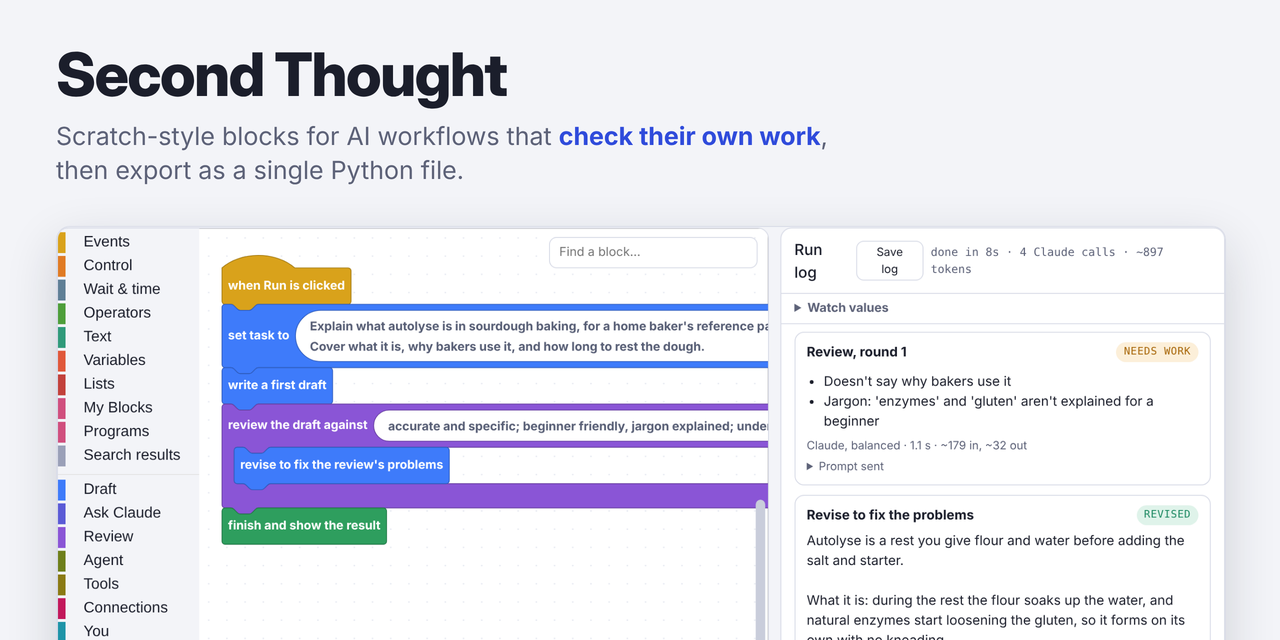
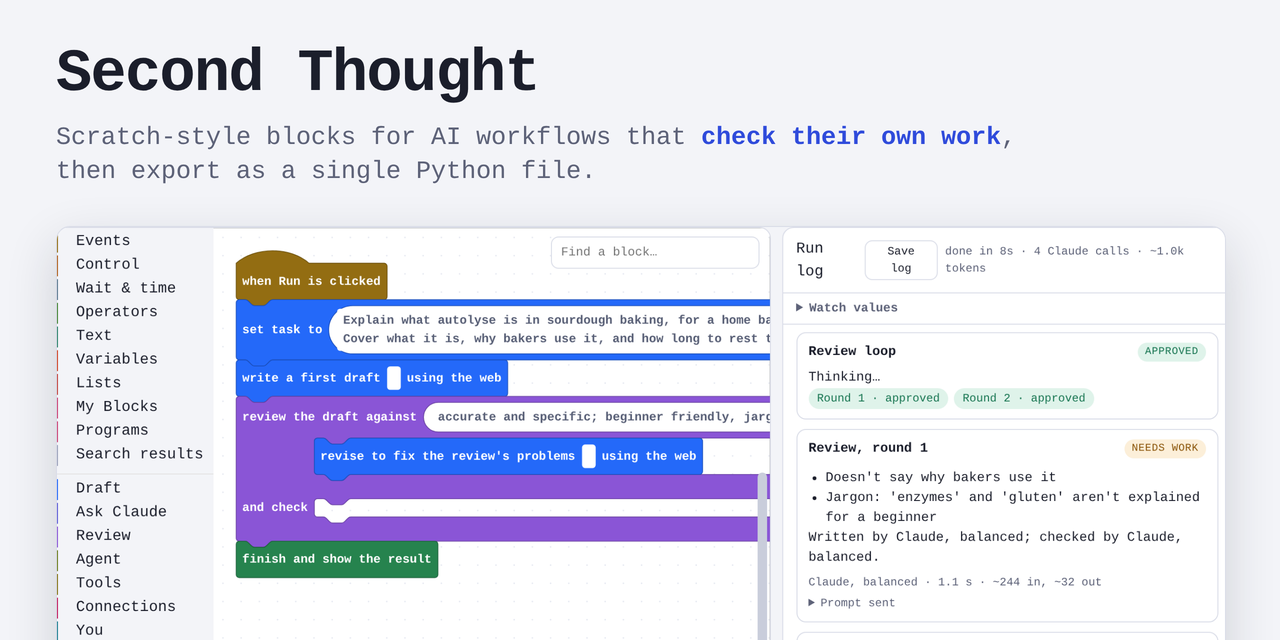
Remake all screenshots against the current page and runtime; release steps include the recorders (#454)
- screenshots/: all 11 pictures remade with tools/record_demo.py and
  tools/record_docs.py against the current page (runtime 3.13.0)
- tools/record_demo.py, tools/record_docs.py: dismiss the first screen
  (#443) and open the export panel via the Program menu's Export (#444),
  so the pictures show the editor, not the overlay or a dead selector
- tools/record_docs.py terminal script: the review steps now show the
  default model band (Claude, balanced (standard)), not a cheaper one —
  a review only uses another model when the program is told to — and the
  --doctor picture names the current RUNTIME_VERSION (3.13.0)
- tests/unit/test_docs.py: RecordedPictures keeps the terminal picture's
  model lines on one band and its runtime line current
- CLAUDE.md and MISTRAL.md: the release steps now include remaking the
  pictures (needs ffmpeg and mmdc)
- CHANGELOG, ROADMAP G4

diff --git a/tools/record_docs.py b/tools/record_docs.py
@@ -77,14 +77,14 @@ RUN = """C:\\Users\\you\\review-loop>run.bat
 ▸ Review  [needs work]
     - Doesn't say why bakers use it.
     - Jargon: 'enzymes' and 'gluten' aren't explained for a beginner.
-    · Claude, quick (budget) · 2.1 s · 655 in, 61 out
+    · Claude, balanced (standard) · 2.1 s · 655 in, 61 out
 
 ▸ Revise to fix the problems  [revised]
     Autolyse is a rest you give flour and water before adding the salt and starter…
     · Claude, balanced (standard) · 7.4 s · 1,020 in, 341 out
 
 ▸ Review  [approved]
-    · Claude, quick (budget) · 1.9 s · 702 in, 12 out
+    · Claude, balanced (standard) · 1.9 s · 702 in, 12 out
 
 ============================================================
 RESULT
@@ -95,12 +95,12 @@ Done · 4 model calls · Claude: 2,789 tokens in, 700 out · about £0.01 at lis
 """
 DOCTOR = """C:\\Users\\you\\wallet-health-check>python wallet-health-check.py --doctor
 
-Checking wallet-health-check.py (runtime 3.11.0, Python 3.14.6).
+Checking wallet-health-check.py (runtime 3.13.0, Python 3.14.6).
 Only reading: nothing is sent, posted, switched or charged.
 
   ok    Python: 3.14.6
   ok    Currency: GBP, at the ECB rate of 2026-11-06 (1 US dollar = £0.75)
-  ok    Runtime: 3.11.0 is the latest
+  ok    Runtime: 3.13.0 is the latest
   ok    Settings: read C:\\Users\\you\\second-thought.ini + C:\\Users\\you\\wallet-health-check\\second-thought.ini
   ok    Keys: ANTHROPIC_API_KEY (C:\\Users\\you\\second-thought.ini), EMAIL_PASSWORD (the keychain)
   ok    Package anthropic: 2.3.0
@@ -181,6 +181,7 @@ async def page_shots():
         await pg.add_init_script(MOCK)
         await pg.goto("http://test/")
         await pg.wait_for_timeout(1500)
+        await pg.evaluate("() => { document.getElementById('first').hidden = true; }")  # the pictures show the editor (#443)
         for name, toggle in (("examples", "#ex-toggle"), ("export", "#io-export"), ("home-assistant", "#ha-toggle")):
             await pg.click(toggle)
             await pg.wait_for_timeout(700)

diff --git a/tools/record_demo.py b/tools/record_demo.py
@@ -62,6 +62,7 @@ async def record(frames: pathlib.Path):
         await pg.add_init_script(MOCK)
         await pg.goto("http://test/")
         await pg.wait_for_timeout(1500)
+        await pg.evaluate("() => { document.getElementById('first').hidden = true; }")  # the pictures show the editor (#443)
         await pg.screenshot(path=str(OUT / "editor.png"))
         await shot(pg, 6)
         await pg.hover("#run")
@@ -73,12 +74,15 @@ async def record(frames: pathlib.Path):
             if n > 20 and await pg.is_disabled("#stop"):
                 break
         await shot(pg, 10)
-        await pg.hover("text=Import / export")
+        await pg.click("#menu-program summary")
+        await pg.wait_for_timeout(300)
         await shot(pg, 3)
-        await pg.click("text=Import / export")
+        await pg.hover("#io-export")
+        await shot(pg, 2)
+        await pg.click("#io-export")
         await pg.wait_for_timeout(600)
         await shot(pg, 4)
-        await pg.hover("text=Save Python (.zip)")
+        await pg.hover("#io-py-save")
         await shot(pg, 14)
         await browser.close()
 
@@ -107,6 +111,7 @@ async def card():
         await pg.add_init_script(MOCK)
         await pg.goto("http://test/")
         await pg.wait_for_timeout(1500)
+        await pg.evaluate("() => { document.getElementById('first').hidden = true; }")  # the pictures show the editor (#443)
         await pg.click("#run")
         for _ in range(160):
             await pg.wait_for_timeout(250)

diff --git a/tests/unit/test_docs.py b/tests/unit/test_docs.py
@@ -120,6 +120,22 @@ class DesignNotes(unittest.TestCase):
         for note in ("CONTRIBUTING.md", "CLAUDE.md", "MISTRAL.md"):
             self.assertIn("docs/design.md", (ROOT / note).read_text(encoding="utf-8"),
                           f"{note} links docs/design.md")
+class RecordedPictures(unittest.TestCase):
+    def test_terminal_picture_matches_the_default_run(self):
+        """The scripted terminal run in tools/record_docs.py (#454): every model line uses one price band — the review
+        on a cheaper model than the draft only happens when a program is told to (the reviewer setting) — and the
+        --doctor picture names the current runtime."""
+        from second_thought.settings import RUNTIME_VERSION
+        src = (ROOT / "tools" / "record_docs.py").read_text(encoding="utf-8")
+        def block(name):
+            start = src.index(name + ' = """') + len(name) + 4
+            return src[start:src.index('"""', start)]
+        bands = re.findall(r"Claude, [^(]+\((\w+)\)", block("RUN"))
+        self.assertTrue(bands and len(set(bands)) == 1,
+                        f"the terminal run's model lines share one price band (the default: review uses the draft's model): {bands}")
+        doctor = block("DOCTOR")
+        self.assertIn(f"runtime {RUNTIME_VERSION}", doctor,
+                      f"the --doctor picture names the current runtime {RUNTIME_VERSION}")
 
 
 if __name__ == "__main__":

diff --git a/CHANGELOG.md b/CHANGELOG.md
@@ -26,6 +26,7 @@ workflow), which is what `--update-runtime` downloads; a release made before tha
 - The runtime holds two release-signing keys, the working one and a spare kept somewhere else, and `--update-runtime` accepts a release signed by either (#429): `UPDATE_SIGNING_KEY` and `UPDATE_SIGNING_SPARE_KEY` in update.py. A key can now be retired by dropping it from the next release's runtime — [SECURITY.md](SECURITY.md) says how — instead of losing it and having to re-export every program, and `--doctor` says on its Runtime line that this runtime checks signatures, and how many keys it holds. Until the first signed release both keys are empty and the SHA-256 check applies as before (#311).
 
 ### Added
+- **The screenshots match the current page and runtime (#454): all 11 remade** with `tools/record_demo.py` and `tools/record_docs.py` (which now dismiss the first screen and use the Program menu); the terminal picture's review steps show the default model band, not a cheaper one, and its `--doctor` names the current runtime — a unit test keeps both true. Both tools are in the release steps in CLAUDE.md and MISTRAL.md.
 - **The page's typefaces come with it on GitHub Pages and in the offline page (#453): `web/fonts/` holds the 14 woff2 faces** (latin, latin-ext, and greek for the mono) from the fontsource packages, pinned by SHA-384 in `tools/fonts.sha384.json`; `tools/pages.py` serves them as `fonts/` and points the page at `fonts/fonts.css`, and `tools/offline.py` embeds them as data: URIs (CSP `font-src` gains `data:` there). The page on claude.ai keeps loading them from Google Fonts. tests/unit/test_fonts.py pins and cross-checks the files; e2e checks both builds load their own faces with no Google request.
 - **A light and dark switch in Settings (#452): the Theme menu's Light / Dark / System** sets `data-theme` on the page at once, re-themes the blocks at once, follows the computer live on System, and is kept across reloads in the browser — including Blockly starting on the kept choice, which the attribute observer alone missed. e2e `theme_tests` covers all of it; the 4 words were already translated in all 34 languages.
 - **The page's design is written down (#451): `docs/design.md`** lists the tokens in `web/editor.css` (light/dark colour pairs, the three typefaces, corners, shadows and layers, pill states, the 4.5:1 contrast rule), the layout rules (workbench grid, one row of controls, drawers over the canvas, the phone outline with 44-pixel controls), and the voice — short sentences, plain words, British spelling, what a thing does before how it works — each with an example. Linked from CONTRIBUTING.md, CLAUDE.md and MISTRAL.md; a unit test keeps the links.

diff --git a/ROADMAP-addendum.md b/ROADMAP-addendum.md
@@ -175,7 +175,7 @@ Each new word on the page is thirty translations, so these designs reuse the wor
 
 **G3. Typefaces that come with the page.** [#453](https://github.com/itsfja/second-thought/issues/453) The three typefaces load from Google Fonts, so the offline page and a blocked network fall back to the system's. Serve them from the site on the GitHub Pages copy, and put them inside the offline page. (Done — #453: the 14 faces the page's languages need (latin and latin-ext for all three families, greek for JetBrains Mono) sit in `web/fonts/` as woff2 from the fontsource packages, pinned by SHA-384 in `tools/fonts.sha384.json` like the libraries; `tools/pages.py` serves `fonts/` beside the page and swaps the Google Fonts links for `fonts/fonts.css` (CSP `font-src 'self'` already allows it); `tools/offline.py` puts the faces inside as data: URIs and adds `data:` to font-src. The page itself keeps Google Fonts, so claude.ai is unchanged. tests/unit/test_fonts.py checks the pins, that fonts.css faces exactly the pinned files, and that the vendor copies hash to the pins; e2e checks the Pages copy loads its own faces and the offline page loads them with no network.)
 
-**G4. Pictures that match the page.** [#454](https://github.com/itsfja/second-thought/issues/454) `screenshots/demo.gif` was recorded at runtime 2.2.0, and the terminal picture shows the review on a cheaper model than the draft, which a program only does if it's told to. Add `tools/record_demo.py` and `tools/record_docs.py` to the release steps in `CLAUDE.md` and `MISTRAL.md`.
+**G4. Pictures that match the page.** [#454](https://github.com/itsfja/second-thought/issues/454) `screenshots/demo.gif` was recorded at runtime 2.2.0, and the terminal picture shows the review on a cheaper model than the draft, which a program only does if it's told to. Add `tools/record_demo.py` and `tools/record_docs.py` to the release steps in `CLAUDE.md` and `MISTRAL.md`. (Done — #454: all 11 pictures remade against the current page and runtime — the tools now dismiss the first screen (#443) and use the Program menu's Export (#444); the scripted terminal run shows every step, review included, on the default model's band (a test in tests/unit/test_docs.py keeps it that way and names the current RUNTIME_VERSION in the --doctor picture); both tools are in the release steps in CLAUDE.md and MISTRAL.md.)
 
 ## Underneath
 

diff --git a/MISTRAL.md b/MISTRAL.md
@@ -15,6 +15,8 @@ matches where you're running.
   first; then Francis publishes the GitHub release on main. The Release workflow refuses a tag whose runtime says
   another version, and then `--update-runtime` has nothing to download. If that happens, the tag has to be deleted
   and made again on main (deleting the release alone leaves the tag where it was).
+- Remake the pictures with the release (#454): `python tools/record_demo.py && python tools/record_docs.py` (after
+  `bash tests/setup.sh`; needs ffmpeg and mmdc on the PATH), and commit the new `screenshots/` with the release PR.
 - The language issues (#129–139, `priority:8`) are under way again (Francis, November 2026): Classical Chinese (#129), Classical Syriac (#130), Church Slavonic (#132), Ottoman Turkish (#133), Pali (#134), Classical Nahuatl (#135), Sumerian (#137), Hittite (#138) and Gothic (#139) are done.
 - Never commit `second-thought.ini` or keys. Real-key checks (`tools/smoke_test.py`) cost money: Francis runs them,
   or says to.

diff --git a/CLAUDE.md b/CLAUDE.md
@@ -13,6 +13,8 @@ learn by trial and error.
   first; then Francis publishes the GitHub release on main. The Release workflow refuses a tag whose runtime says
   another version, and then `--update-runtime` has nothing to download. If that happens, the tag has to be deleted
   and made again on main (deleting the release alone leaves the tag where it was).
+- Remake the pictures with the release (#454): `python tools/record_demo.py && python tools/record_docs.py` (after
+  `bash tests/setup.sh`; needs ffmpeg and mmdc on the PATH), and commit the new `screenshots/` with the release PR.
 - The language issues (#129–139, `priority:8`) are under way again (Francis, November 2026): Classical Chinese (#129), Classical Syriac (#130), Church Slavonic (#132), Ottoman Turkish (#133), Pali (#134), Classical Nahuatl (#135), Sumerian (#137), Hittite (#138) and Gothic (#139) are done.
 - Never commit `second-thought.ini` or keys. Real-key checks (`tools/smoke_test.py`) cost money: Francis runs them,
   or says to.
